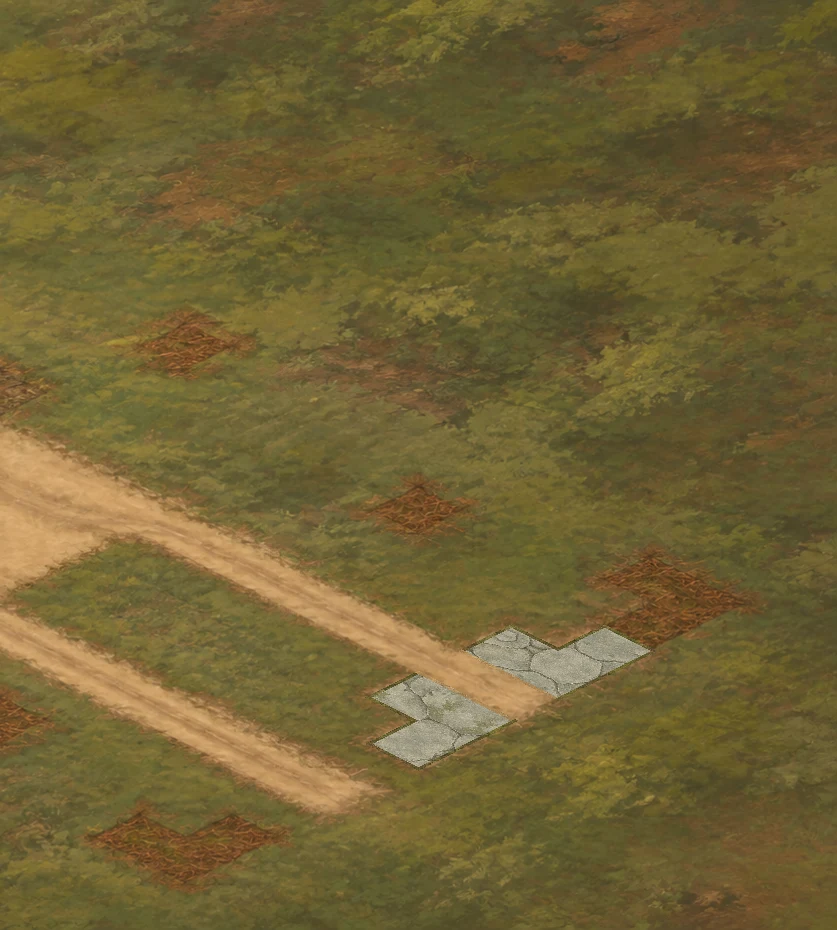
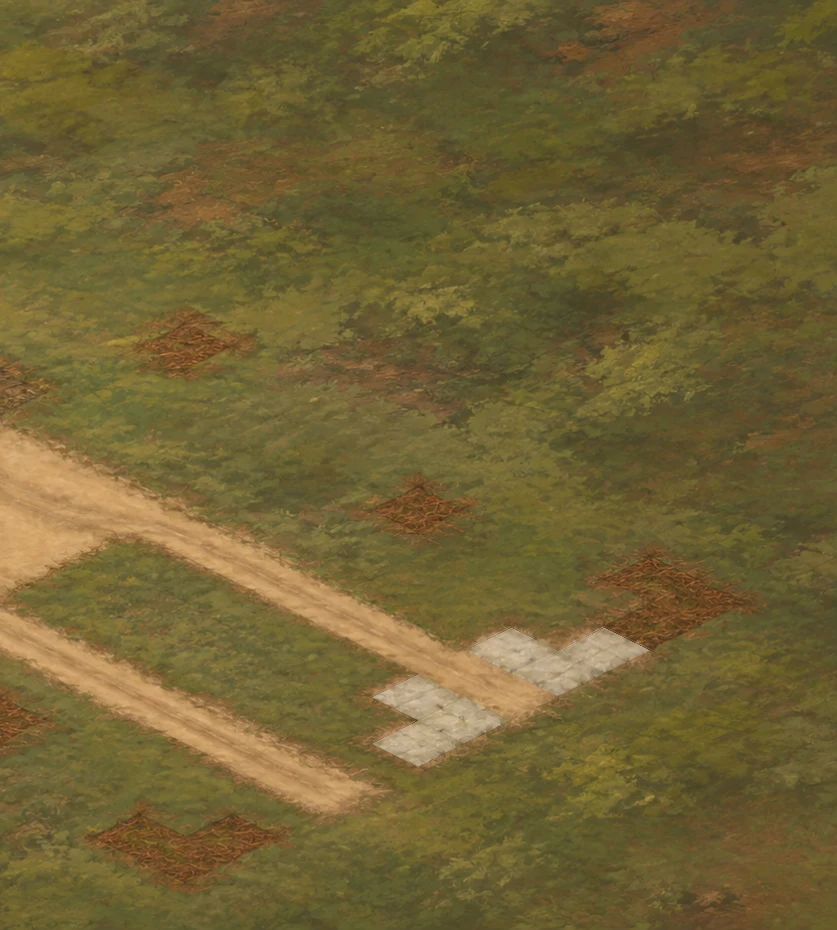
Integrate authored elevation material within exact mask

Changed region(s): [[0.4349, 0.6548, 0.7766, 0.8419]]

diff --git a/scripts/art/forest-composition.ts b/scripts/art/forest-composition.ts
@@ -1,12 +1,12 @@
 /** Pack one authored ground plate; retain registered substrate at rule-sensitive boundaries. */
 import { mkdirSync, writeFileSync } from 'node:fs';
 import { FOREST_ROAD } from '../../src/content/maps/combat';
-import { readImage, newImage, pixelAt, setPixel } from './lib/image';
+import { readImage, newImage, pixelAt, setPixel, writePng } from './lib/image';
 import { scaleTo } from './lib/scale';
 import { crop } from './lib/trim';
 import { encodeWebp } from './lib/webp';
 
-const [platePath, atlasPath] = process.argv.slice(2);
+const [platePath, atlasPath, auditDirectory] = process.argv.slice(2);
 if (!platePath || !atlasPath)
   throw new Error('Provide the authored plate and original material atlas.');
 const raw = readImage(platePath);
@@ -55,6 +55,76 @@ for (let py = 0; py < plate.height; py++) {
   }
 }
 const directory = 'public/art/maps/forest-scene';
+const prior = { ...output, data: output.data.slice() };
+const elevated = critical.filter(({ x, y }) => FOREST_ROAD.rows[y]?.[x] === '^');
+const logical = (px: number, py: number) => {
+  const dx = (((px + 0.5) * 2304) / plate.width - 896) / 64;
+  const dy = (((py + 0.5) * 1280) / plate.height - 192) / 32;
+  return { x: (dx + dy) / 2, y: (dy - dx) / 2 };
+};
+const elevationDistance = (x: number, y: number) =>
+  Math.min(...elevated.map((c) => Math.max(c.x - x, x - c.x - 1, c.y - y, y - c.y - 1, 0)));
+const terrain = (x: number, y: number) => FOREST_ROAD.rows[Math.floor(y)]?.[Math.floor(x)] ?? ',';
+let mattePixels = 0;
+for (let py = 0; py < plate.height; py++) {
+  for (let px = 0; px < plate.width; px++) {
+    const { x, y } = logical(px, py);
+    const distance = elevationDistance(x, y);
+    if (distance > 0.08) continue;
+    const key = terrain(x, y);
+    let sourceX = px,
+      sourceY = py;
+    // The observed source fringe extends 0.0161 cell outside stone. A 0.02
+    // exterior matte copies the nearest same-terrain authored pixel clear of
+    // that fringe. No colour synthesis, blurred edge or extra stone is added.
+    if (key !== '^' && distance <= 0.02) {
+      let best = Infinity;
+      for (let oy = -6; oy <= 6; oy++) {
+        for (let ox = -6; ox <= 6; ox++) {
+          const sx = px + ox,
+            sy = py + oy;
+          if (sx < 0 || sy < 0 || sx >= plate.width || sy >= plate.height) continue;
+          const candidate = logical(sx, sy);
+          const square = ox * ox + oy * oy;
+          if (
+            square < best &&
+            terrain(candidate.x, candidate.y) === key &&
+            elevationDistance(candidate.x, candidate.y) >= 0.04
+          ) {
+            best = square;
+            sourceX = sx;
+            sourceY = sy;
+          }
+        }
+      }
+      if (!Number.isFinite(best)) throw new Error('No same-terrain authored pixel for edge matte.');
+      mattePixels++;
+    }
+    setPixel(output, px, py, pixelAt(plate, sourceX, sourceY));
+  }
+}
+let elevationChangedPixels = 0;
+for (let py = 0; py < output.height; py++) {
+  for (let px = 0; px < output.width; px++) {
+    if (pixelAt(prior, px, py).every((value, i) => value === pixelAt(output, px, py)[i])) continue;
+    const wx = ((px + 0.5) * 2304) / output.width - 896;
+    const wy = ((py + 0.5) * 1280) / output.height - 192;
+    const x = wx / 128 + wy / 64,
+      y = wy / 64 - wx / 128;
+    if (
+      !elevated.some(
+        (c) => x >= c.x - 0.08 && x <= c.x + 1.08 && y >= c.y - 0.08 && y <= c.y + 1.08,
+      )
+    )
+      throw new Error('Elevation correction changed a pixel outside its approved envelope.');
+    elevationChangedPixels++;
+  }
+}
+if (auditDirectory) {
+  mkdirSync(auditDirectory, { recursive: true });
+  writePng(`${auditDirectory}/before.png`, prior);
+  writePng(`${auditDirectory}/after.png`, output);
+}
 // Independent colour audit of composed pixels: teal is unique among this
 // plate's earth/grass materials. This does not certify post-WebP edge colours.
 let sourceWaterSpill = 0,
@@ -90,4 +160,6 @@ console.log({
   guardedPixels,
   sourceWaterSpill,
   packedWaterSpill,
+  elevationChangedPixels,
+  mattePixels,
 });

diff --git a/docs/art/forest-ground-composition.md b/docs/art/forest-ground-composition.md
@@ -60,3 +60,29 @@ visual softness of elevation/road edges. Those require integrated inspection.
 The maps family is 2.86 MiB under the unchanged 4 MiB limit. Lower storage is
 from replacing this batch's repeated swatches, not reducing other asset quality.
 Candidate acceptance remains pending actual 96px gameplay review.
+
+## Local elevation packing correction
+
+The 0c7229b review found that the old atlas substituted across elevation created
+an overly sharp/grainy stone patch and dark rim. The correction reuses the current
+plate inside the existing elevation-plus-0.08-cell envelope. Exact map elevation
+cells remain authoritative; source material is copied without changing rules,
+scene registration or any water treatment.
+
+Inside `^`, the current plate supplies the softer authored limestone. Outside,
+the current plate supplies grass/road. A 0.02-cell exterior registration matte
+copies the nearest same-terrain authored pixel at least 0.04 cell clear of the
+stone boundary. This excludes the observed 0.01604-cell pale fringe without
+inventing painted pixels. The colour diagnostic is not collision proof.
+
+The pre-encoding before/after audit found 15,676 changed pixels, all inside the
+previous elevation envelope, and 752 matte pixels. It throws if any change lies
+outside that envelope. The separate water colour audit still reports zero spill;
+water and its distant guard are outside the changed envelope. Source/packed sizes,
+quality and world chunk placement remain unchanged. Lossy encoding can affect
+nearby block pixels; this audit describes the uncompressed composition.
+
+Before WebPs and pre-encoding before/after PNGs are preserved locally under
+`gallery/scene-audit/elevation-packing/`. Directly inspected boundary crops show
+the old grain/dark rim replaced by quieter warm stone. Final acceptance still
+requires the combined actual-96px review with gameplay's permanent-rubble fix.
